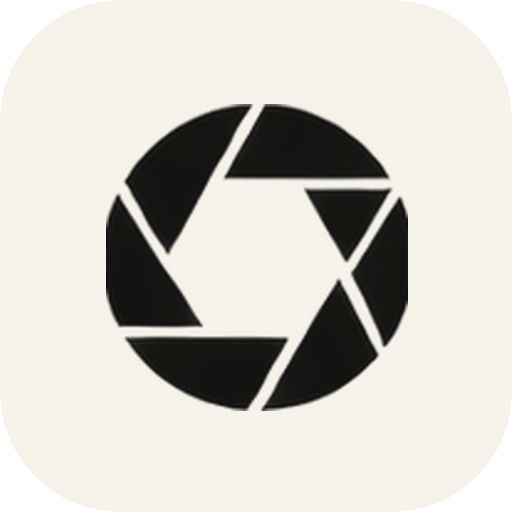
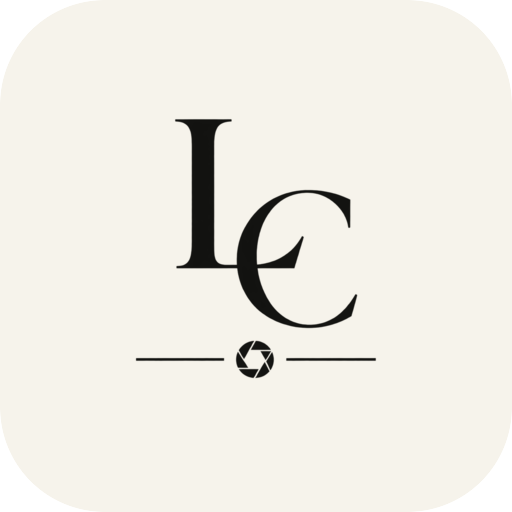
Atualiza identidade visual para o monograma LC

Changed region(s): [[0.1875, 0.1875, 0.8125, 0.8125]]

diff --git a/app/src/main/java/com/example/lensclickapp/ui/LensClickApp.kt b/app/src/main/java/com/example/lensclickapp/ui/LensClickApp.kt
@@ -144,7 +144,7 @@ private fun LogoAsset(modifier: Modifier = Modifier, size: Int, onDark: Boolean 
     ) {
         Image(
             painter = painterResource(R.drawable.lens_click_mark),
-            contentDescription = "Lens Click",
+            contentDescription = "Monograma Lens Click",
             modifier = Modifier.fillMaxSize()
                 .graphicsLayer {
                     scaleX = 1.12f

diff --git a/README.md b/README.md
@@ -1,9 +1,9 @@
 <p align="center">
-  <img src="assets/banner.jpg" alt="Lens Click — banner com câmera analógica, luz dourada e o logotipo da marca" width="100%" />
+  <img src="assets/banner.jpg" alt="Lens Click — banner com câmera analógica e o monograma L sobre C da marca" width="100%" />
 </p>
 
 <p align="center">
-  <img src="assets/icon.png" alt="Ícone do Lens Click: abertura de lente dourada sobre papel" width="104" />
+  <img src="assets/icon.png" alt="Logotipo do Lens Click: monograma L sobre C com obturador fotográfico, sobre papel" width="104" />
 </p>
 
 <h1 align="center">Lens Click</h1>
@@ -127,13 +127,14 @@ O design segue uma direção **editorial e atemporal**, inspirada na fotografia 
 
 | Formato | Arquivo | Onde aparece |
 |---|---|---|
-| Conjunto completo — monograma *LC* + abertura + filetes | `drawable-nodpi/lens_click_mark.png` | Splash, telas de autenticação e cabeçalho das telas internas |
-| Abertura isolada | `drawable-*/ic_launcher_foreground.png` | Ícone do app (o mesmo desenho em preto sólido alimenta a camada *monochrome* dos ícones temáticos) |
-| Lockup transparente com a palavra-marca | `assets/brand_lockup.png` | Base para o banner e para outras peças da marca |
-| Arte-base sem letreiro | `assets/hero.jpg` | Fotografia original com o texto embutido removido, pronta para receber novas composições |
-| Banner montado | `assets/banner.jpg` | Cabeçalho deste README |
+| Monograma *LC* completo — letras sobrepostas, obturador e filetes | `drawable-nodpi/lens_click_mark.png` | Splash, telas de autenticação e cabeçalho das telas internas |
+| Monograma *LC* compacto | `drawable-*/ic_launcher_foreground.png` | Ícone do app e camada *monochrome* dos ícones temáticos |
+| Lockup transparente do monograma | `assets/brand_lockup.png` | Arte-base da marca para materiais editoriais |
+| Ícone da marca sobre papel | `assets/icon.png` | Apresentação da marca neste README e em outras peças |
+| Arte-base sem letreiro | `assets/hero.jpg` | Fotografia original sem texto, pronta para receber novas composições |
+| Banner montado apenas com o monograma | `assets/banner.jpg` | Cabeçalho deste README |
 
-Na splash, o ícone é declarado em `Theme.LensClickApp.Starting` (`windowSplashScreenAnimatedIcon`) usando `@drawable/splash_icon`, gerado nas densidades `mdpi`→`xxxhdpi` dentro da especificação do Android 12+: **caixa de 288 dp com o desenho dentro do círculo de 192 dp** que o sistema exibe. O logo em si é desenhado em preto sólido e recolorido em tempo de execução (`BlendMode.SrcIn`), o que permite usar a mesma arte em off-white sobre a fotografia do Onboarding e em dourado nas telas claras.
+Na splash, o monograma é declarado em `Theme.LensClickApp.Starting` (`windowSplashScreenAnimatedIcon`) usando `@drawable/splash_icon`, gerado nas densidades `mdpi`→`xxxhdpi` dentro da especificação do Android 12+: **caixa de 288 dp com o desenho dentro do círculo de 192 dp** que o sistema exibe. A arte do monograma é desenhada em preto sólido e recolorida em tempo de execução (`BlendMode.SrcIn`), o que permite usar a mesma logo em off-white sobre a fotografia do Onboarding e em dourado nas telas claras.
 
 ## 🗂 Estrutura do projeto
 
